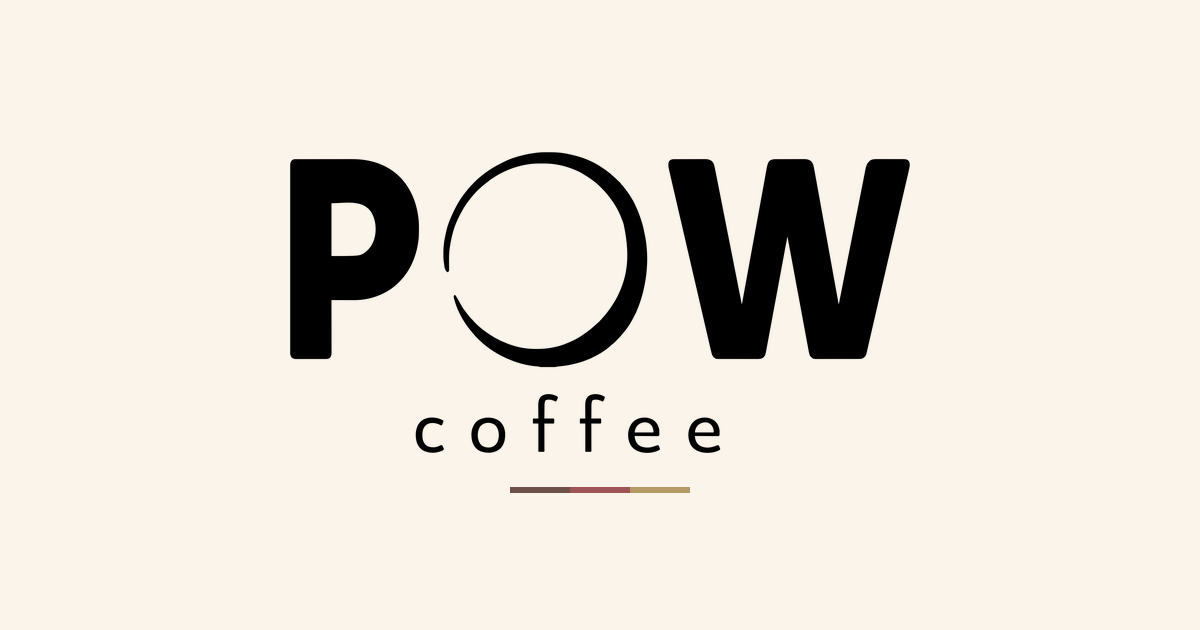
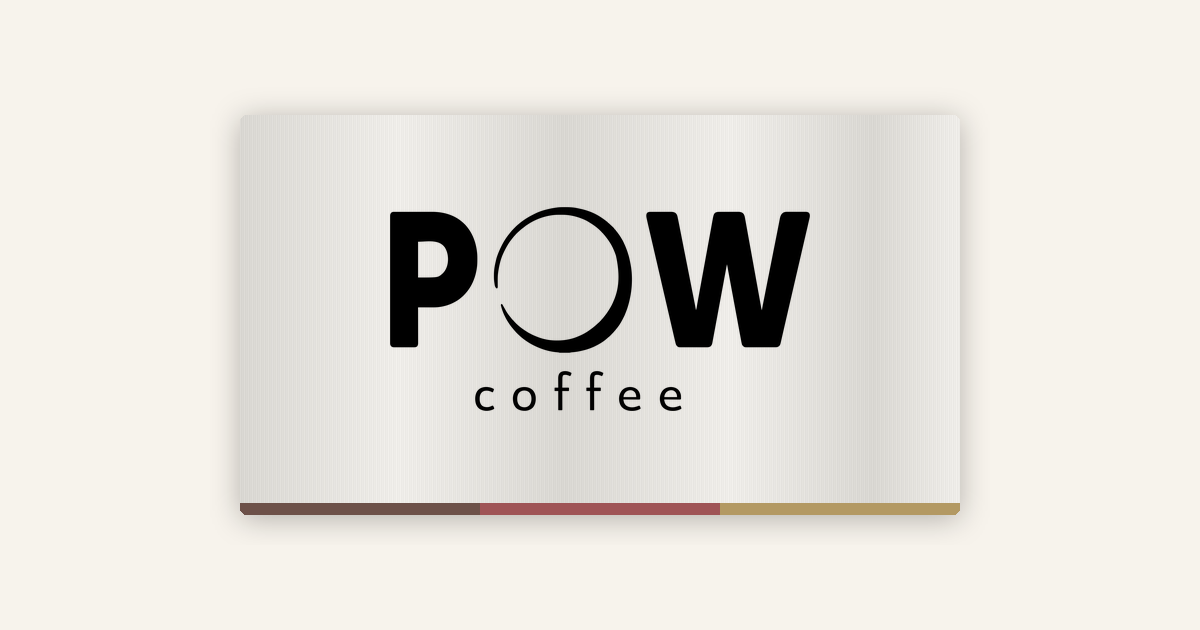
RVS-paneel met smaakfamiliebalk, volgens de bijgewerkte merkbrief
De materiaalrichting uit de brief (Milaan, augustus) is een neutrale zilveren
drager met een horizontale kleurbalk in de smaakfamiliekleur als enige
kleuraccent. Het logo staat nu op zo'n paneel, met de balk over de volle
breedte eronder: dezelfde opbouw als de koffiezak.

Het staaleffect komt uit gestapelde CSS-gradients in plaats van een afbeelding,
dus scherp op elk scherm en geen extra verzoek. Bewust laag van contrast.

Twee dingen uit de bijgewerkte brief meegenomen: de achtergrond is #F7F3EC in
plaats van #FAF4EA, en de regel "scherpe hoeken overal behalve het logo" is
losgelaten. De verouderde waarschuwing daarover is uit de CSS gehaald.

Deelplaatje opnieuw opgebouwd met hetzelfde paneel.

Changed region(s): [[0.185, 0.1508, 0.8017, 0.8444], [0.8017, 0.2111, 0.8325, 0.7841]]

diff --git a/styles.css b/styles.css
@@ -3,10 +3,9 @@
    - Zwart beeldmerk en zwarte tekst op crème achtergrond
    - De drie smaakfamiliekleuren komen alleen terug als accent (zie .flavours)
    - Alpino voor tekst, zelf gehost (zie het blok hieronder)
-   - Knoppen en panelen hebben een lichte afronding (--radius). Het logo blijft
-     de enige echt ronde vorm; houd die afronding dus subtiel.
-     Let op: de merkbrief in Notion schrijft nog scherpe hoeken voor. Die is
-     hier bewust van afgeweken; werk de brief bij zodat ze weer overeenkomen. */
+   - Ronde hoeken zijn toegestaan in alle toepassingen (--radius). De merkbrief
+     heeft de eerdere regel "scherpe hoeken overal behalve het logo" na de
+     Milaan-trip losgelaten. */
 
 /* ---------- Lettertype ----------
    Alpino (Indian Type Foundry, ITF Free Font License), zelf gehost vanaf dit
@@ -28,7 +27,7 @@
 }
 
 :root {
-  --creme: #faf4ea;
+  --creme: #f7f3ec;
   --ink:   #000000; /* gelijk aan de fill in het zwarte logo */
 
   /* De drie smaakfamilies, uit de logo-set. Alleen als accent gebruikt:
@@ -37,9 +36,13 @@
   --fruitig:  #9f5456;
   --rond:     #b39963;
 
-  /* Lichte afronding op knoppen en panelen. Het logo blijft de enige
-     echt ronde vorm; dit is bewust net genoeg om de hoeken te breken. */
   --radius: 4px;
+
+  /* RVS-tinten voor het paneel, afgeleid van de materiaalrichting in de
+     merkbrief: geborsteld staal als neutrale drager. */
+  --staal-licht: #edebe7;
+  --staal-mid:   #d7d5d0;
+  --staal-diep:  #c6c4bf;
 
   /* 0.70 haalt 8,20:1 op creme, 0.55 haalt 4,65:1. Beide ruim genoeg voor
      lopende tekst; ga niet lager zonder opnieuw te rekenen. */
@@ -84,38 +87,64 @@ body {
 
 /* ---------- Logo ---------- */
 
-.logo {
-  margin: 0;
-  line-height: 0;
+/* ---------- RVS-paneel met smaakfamiliebalk ----------
+   Volgt de materiaalrichting uit de merkbrief: een neutrale zilveren drager met
+   een horizontale kleurbalk in de smaakfamiliekleur als enige kleuraccent,
+   precies zoals de koffiezak is opgebouwd.
+
+   Het geborstelde effect komt uit gestapelde gradients, niet uit een
+   afbeelding: scherp op elk scherm en geen extra verzoek. Bewust matig van
+   contrast, want "geen poespas, wel smaak" verdraagt geen chroomglans. */
+
+.plate {
+  position: relative;
+  overflow: hidden;               /* houdt de balk binnen de afgeronde hoeken */
+  border-radius: var(--radius);
+  padding: clamp(2rem, 5vw, 3rem) clamp(2rem, 6vw, 4rem) 0;
+  background:
+    repeating-linear-gradient(
+      90deg,
+      rgba(255, 255, 255, 0.22) 0 1px,
+      rgba(0, 0, 0, 0.016) 1px 2px,
+      rgba(255, 255, 255, 0.11) 2px 3px,
+      rgba(0, 0, 0, 0.009) 3px 4px
+    ),
+    linear-gradient(
+      104deg,
+      var(--staal-mid) 0%,
+      var(--staal-licht) 22%,
+      var(--staal-mid) 45%,
+      var(--staal-licht) 68%,
+      var(--staal-mid) 88%,
+      var(--staal-licht) 100%
+    );
+  box-shadow:
+    inset 0 1px 0 rgba(255, 255, 255, 0.75),
+    inset 0 -1px 0 rgba(0, 0, 0, 0.10),
+    0 1px 2px rgba(0, 0, 0, 0.10),
+    0 8px 28px rgba(0, 0, 0, 0.13);
 }
 
-/* De lockup is gestapeld (POW boven, coffee eronder), verhouding 805:435.
-   Breedte bepaalt de maat, hoogte volgt automatisch. */
-.logo img {
+.plate__logo { margin: 0; line-height: 0; }
+
+.plate__logo img {
   display: block;
   width: clamp(11rem, 26vw, 15rem);
   height: auto;
 }
 
-/* ---------- Hint naar de drie smaakfamilies ----------
-   Een balk in drieen, in de kleuren van Krachtig, Fruitig en Rond. Bewust klein
-   en zonder uitleg: het is een knipoog, geen legenda. Scherpe hoeken, want de
-   ronde vorm blijft aan het logo voorbehouden.
-   De betekenis staat ook als verborgen tekst in de HTML, zodat die niet
-   uitsluitend van kleur afhangt. */
-
-.flavours {
+/* De kleurbalk loopt door tot de randen van het paneel, zoals op de zak. */
+.plate__bar {
   display: flex;
-  margin: 1.75rem 0 0;
-  width: 7.5rem;
-  height: 5px;
+  height: 10px;
+  margin: clamp(2rem, 5vw, 3rem) calc(-1 * clamp(2rem, 6vw, 4rem)) 0;
 }
 
-.flavours__seg { flex: 1; }
+.plate__seg { flex: 1; }
 
-.flavours__seg--krachtig { background: var(--krachtig); }
-.flavours__seg--fruitig  { background: var(--fruitig); }
-.flavours__seg--rond     { background: var(--rond); }
+.plate__seg--krachtig { background: var(--krachtig); }
+.plate__seg--fruitig  { background: var(--fruitig); }
+.plate__seg--rond     { background: var(--rond); }
 
 /* ---------- Tekst ---------- */
 

diff --git a/index.html b/index.html
@@ -5,7 +5,7 @@
 <meta name="viewport" content="width=device-width, initial-scale=1">
 <title>POW coffee — binnenkort</title>
 <meta name="description" content="POW coffee. Goede koffie thuis, zonder gedoe en zonder studie. Binnenkort.">
-<link rel="icon" href="pow-mark-black.svg?v=13" type="image/svg+xml">
+<link rel="icon" href="pow-mark-black.svg?v=14" type="image/svg+xml">
 
 <meta property="og:type" content="website">
 <meta property="og:title" content="POW coffee — binnenkort">
@@ -20,22 +20,26 @@
 <meta name="twitter:card" content="summary_large_image">
 
 
-<link rel="stylesheet" href="styles.css?v=13">
+<link rel="stylesheet" href="styles.css?v=14">
 
 </head>
 <body>
 
 <main class="page">
 
-  <h1 class="logo">
-    <img src="pow-coffee-black.svg?v=13" alt="POW coffee" width="805" height="435">
-  </h1>
-
-  <p class="flavours" aria-hidden="true">
-    <span class="flavours__seg flavours__seg--krachtig"></span>
-    <span class="flavours__seg flavours__seg--fruitig"></span>
-    <span class="flavours__seg flavours__seg--rond"></span>
-  </p>
+  <!-- Het paneel volgt de RVS-richting uit de merkbrief: een neutrale zilveren
+       drager met een horizontale kleurbalk in de smaakfamiliekleuren als enige
+       kleuraccent. Dezelfde opbouw als de koffiezak. -->
+  <div class="plate">
+    <h1 class="plate__logo">
+      <img src="pow-coffee-black.svg?v=14" alt="POW coffee" width="805" height="435">
+    </h1>
+    <span class="plate__bar" aria-hidden="true">
+      <span class="plate__seg plate__seg--krachtig"></span>
+      <span class="plate__seg plate__seg--fruitig"></span>
+      <span class="plate__seg plate__seg--rond"></span>
+    </span>
+  </div>
   <p class="sr-only">Drie smaakfamilies: Krachtig, Fruitig en Rond.</p>
 
   <p class="tagline">Binnenkort</p>
@@ -81,6 +85,6 @@
   <div class="hs-form-frame" data-region="eu1" data-form-id="3313809b-ae9d-48c7-9a12-b1d08e2b3a7b" data-portal-id="149139429"></div>
 </dialog>
 
-<script src="script.js?v=13" defer></script>
+<script src="script.js?v=14" defer></script>
 </body>
 </html>

diff --git a/privacy/index.html b/privacy/index.html
@@ -5,7 +5,7 @@
 <meta name="viewport" content="width=device-width, initial-scale=1">
 <title>Privacyverklaring — POW coffee</title>
 <meta name="description" content="Privacyverklaring van POW Coffee: welke gegevens we verzamelen, waarom, en welke rechten je hebt.">
-<link rel="icon" href="/pow-mark-black.svg?v=13" type="image/svg+xml">
+<link rel="icon" href="/pow-mark-black.svg?v=14" type="image/svg+xml">
 <meta name="robots" content="index, follow">
 
 <meta property="og:type" content="article">
@@ -16,13 +16,13 @@
 <meta property="og:image" content="https://powcoffee.nl/og.png">
 
 
-<link rel="stylesheet" href="/styles.css?v=13">
+<link rel="stylesheet" href="/styles.css?v=14">
 </head>
 <body>
 
 <header class="doc__head">
   <a class="doc__logo" href="/" aria-label="Terug naar de homepage van POW coffee">
-    <img src="/pow-coffee-black.svg?v=13" alt="POW coffee" width="805" height="435">
+    <img src="/pow-coffee-black.svg?v=14" alt="POW coffee" width="805" height="435">
   </a>
 </header>
 

diff --git a/README.md b/README.md
@@ -22,7 +22,7 @@ Embed van HubSpot-formulier `3313809b-ae9d-48c7-9a12-b1d08e2b3a7b` in portal
 
 Het formulier zit achter een knop, in een native `<dialog>`. Het HubSpot-script
 wordt pas opgehaald bij de eerste klik (zie `script.js`). Een gewoon
-paginabezoek laadt dus niets van HubSpot en niets van Google reCAPTCHA.
+paginabezoek laadt dus niets van HubSpot.
 Verplaats die embed niet terug naar de pagina zelf zonder dat te heroverwegen:
 dan laden die trackers weer bij iedere bezoeker.
 
@@ -35,8 +35,8 @@ Twee dingen om daar recht te zetten, want ze botsen met de merkbrief:
 
 - De invoervelden en de knop hebben **ronde hoeken**. De merkregel is dat de ronde
   vorm aan het logo voorbehouden is; zet de radius op 0.
-- De knop is HubSpot-oranje, niet Fruitig `#F37868`. Zet ook de tekstkleur op
-  Krachtig `#2E0D08` en het lettertype op Inter.
+- De knop is HubSpot-oranje. Zet die op Fruitig `#9F5456` met crème tekst, de
+  tekstkleur op zwart en het lettertype op Alpino.
 
 ## Lettertype: Alpino
 
@@ -55,9 +55,16 @@ downloaden van GitHub. Voor de website zelf is zelf-hosten expliciet toegestaan
 Wil je dat zeker afdekken, dan is de repo privé maken de veiligste route
 (vereist GitHub Pro voor Pages met een eigen domein).
 
-## Kleuren
+## Kleuren en materiaal
 
-- Tekst en logo: **zwart** `#000000` op crème `#FAF4EA`.
+- Tekst en logo: **zwart** `#000000` op crème `#F7F3EC` (achtergrondkleur uit de
+  merkbrief).
+- Het logo staat op een **geborsteld stalen paneel** met de smaakfamiliebalk
+  eronder. Dat volgt de RVS-materiaalrichting uit de merkbrief: een neutrale
+  zilveren drager met een horizontale kleurbalk als enige kleuraccent, dezelfde
+  opbouw als de koffiezak. Het staaleffect komt uit gestapelde CSS-gradients,
+  niet uit een afbeelding, dus het blijft scherp op elk scherm.
+- Houd dat effect subtiel: "geen poespas, wel smaak" verdraagt geen chroomglans.
 - De drie smaakfamilies komen alleen terug als accent in de balk onder het logo:
   Krachtig `#6D5149`, Fruitig `#9F5456`, Rond `#B39963`. Fruitig is ook de
   hoverkleur van de primaire knop.
@@ -72,15 +79,17 @@ nodig). Quick Look rendert de SVG op een witte achtergrond, dus de alpha wordt
 per pixel teruggerekend — anders krijg je een witte rand om de letters op crème.
 
 ```bash
-qlmanage -t -s 2000 -o /tmp pow-coffee-krachtig.svg && python3 -c "
+qlmanage -t -s 2000 -o /tmp pow-coffee-black.svg && python3 -c "
 from PIL import Image
-src = Image.open('/tmp/pow-coffee-krachtig.svg.png').convert('RGB')
-INK, CREME = (0x2E,0x0D,0x08), (0xFA,0xF4,0xEA)
-a = src.getchannel('R').point(lambda v: max(0,min(255,round((255-v)*255/(255-INK[0])))))
+src = Image.open('/tmp/pow-coffee-black.svg.png').convert('RGB')
+INK, CREME = (0,0,0), (0xFA,0xF4,0xEA)
+a = src.getchannel('G').point(lambda v: max(0,min(255,round((255-v)*255/255))))
 logo = Image.new('RGBA', src.size, INK+(0,)); logo.putalpha(a); logo = logo.crop(a.getbbox())
 logo = logo.resize((620, round(logo.size[1]*620/logo.size[0])), Image.LANCZOS)
 c = Image.new('RGB', (1200,630), CREME)
-c.paste(logo, ((1200-logo.size[0])//2, (630-logo.size[1])//2), logo)
+c.paste(logo, ((1200-logo.size[0])//2, (630-logo.size[1])//2 - 12), logo)
+for i,col in enumerate([(0x6d,0x51,0x49),(0x9f,0x54,0x56),(0xb3,0x99,0x63)]):
+    c.paste(Image.new('RGB',(60,6),col), (600-90+i*60, (630+logo.size[1])//2 + 22))
 c.save('og.png', optimize=True)"
 ```
 
@@ -103,9 +112,11 @@ zijn tracking code sowieso voordat er toestemming is. Publiceer je later alsnog
 een beleid in HubSpot, haal deze banner dan weg: anders krijgen bezoekers er
 twee.
 
-Het aanmeldformulier staat hier los van. HubSpot Forms en reCAPTCHA laden pas
-als iemand op "Hou me op de hoogte" klikt; dat is een handeling die de bezoeker
-zelf start, en het formulier vraagt zelf om toestemming voor de gegevens.
+Het aanmeldformulier staat hier los van. HubSpot Forms laadt pas als iemand op
+"Hou me op de hoogte" klikt; dat is een handeling die de bezoeker zelf start, en
+het formulier vraagt zelf om toestemming voor de gegevens. reCAPTCHA is in
+HubSpot uitgezet: dat stuurde gegevens naar Google in de VS, wat botste met de
+privacyverklaring. Zet het niet terug aan zonder die verklaring aan te passen.
 
 ## Privacyverklaring
 
@@ -125,7 +136,7 @@ Maak je dit smaller, dan verdwijnt die knop weer onder de vouw.
 
 GitHub Pages stuurt `cache-control: max-age=600`. Na een deploy kan een
 bezoeker dus tot tien minuten de oude CSS of JS houden. Daarom hangt er een
-versienummer aan de links: `styles.css?v=3` en `script.js?v=3`. **Hoog dat
+versienummer aan de links: `styles.css?v=13` en `script.js?v=13`. **Hoog dat
 nummer op** zodra je een van die twee bestanden wijzigt, anders zien
 terugkerende bezoekers de oude versie.
 
@@ -143,34 +154,21 @@ tijdelijk en verhuist niet mee.
 ## Lokaal bekijken
 
 ```bash
-python3 -m http.server 4321
+python3 -m http.server 4325
 ```
 
-Daarna http://localhost:4321 openen.
+Daarna http://localhost:4325 openen.
 
 ## Merkregels die in de code zitten
 
 Deze volgen uit de merkbrief in Notion. Handig om te weten als je gaat aanpassen:
 
-- **Scherpe hoeken overal.** De ronde vorm is voorbehouden aan het logo, zodat de
-  ring herkenbaar blijft. Voeg dus geen `border-radius` toe.
-- **Kleuren:** Krachtig `#2E0D08` als tekstkleur op een crèmetint (`#FAF4EA`).
-  `#2E0D08` is ook de `fill` in de logo-SVG's, dus logo en tekst zijn één geheel.
-  Fruitig en Rond komen op deze pagina niet voor.
-- **Font:** Inter, **zelf gehost** vanuit `fonts/`. Zet dit niet terug naar een
-  `<link>` naar fonts.googleapis.com: Google Fonts stuurt het IP-adres van elke
-  bezoeker naar Google in de VS, bij elk bezoek en voor enige toestemming. Dat
-  botst met de privacyverklaring, die zegt dat er niets buiten de EER gaat.
-  Fraunces is niet nodig — het logo brengt zijn eigen letters mee als vector.
+- **Ronde hoeken mogen in alle toepassingen** (`--radius: 4px`). De merkbrief
+  heeft de eerdere regel "scherpe hoeken overal behalve het logo" na de
+  Milaan-trip losgelaten omdat die te hard aanvoelde.
+- **Kleuren:** zie de sectie Kleuren hierboven.
+- **Font:** Alpino, zelf gehost. Zie de sectie Lettertype hierboven.
 - **Toon:** altijd "je", nooit "u". Geen grote woorden van kleine dingen.
-- **De primaire knop is Krachtig met creme tekst** (16,3:1). Bij hover keert hij
-  om naar Fruitig met Krachtig tekst (6,54:1). Zet daar geen witte tekst op:
-  wit op `#F37868` haalt 2,73:1 en zakt onder de WCAG-ondergrens, ook die voor
-  grote tekst. Reken opnieuw voor je die combinatie wijzigt.
-
-## Als je later toch e-mails wil verzamelen
-
-Aanmeldingen wegschrijven naar Notion kan niet vanaf GitHub Pages: dat is puur
-statisch, en het Notion-token mag nooit in de broncode staan. Je hebt dan één
-klein endpoint elders nodig (een Cloudflare Worker is gratis en is één bestand),
-of je embedt een Tally-formulier met Tally's Notion-integratie.
+- **De primaire knop is zwart met crème tekst** (19,2:1). Bij hover keert hij om
+  naar Fruitig `#9F5456` met crème tekst (4,95:1). Zet daar geen donkere tekst
+  op: dat haalt 1,33:1. Reken opnieuw voor je die combinatie wijzigt.
